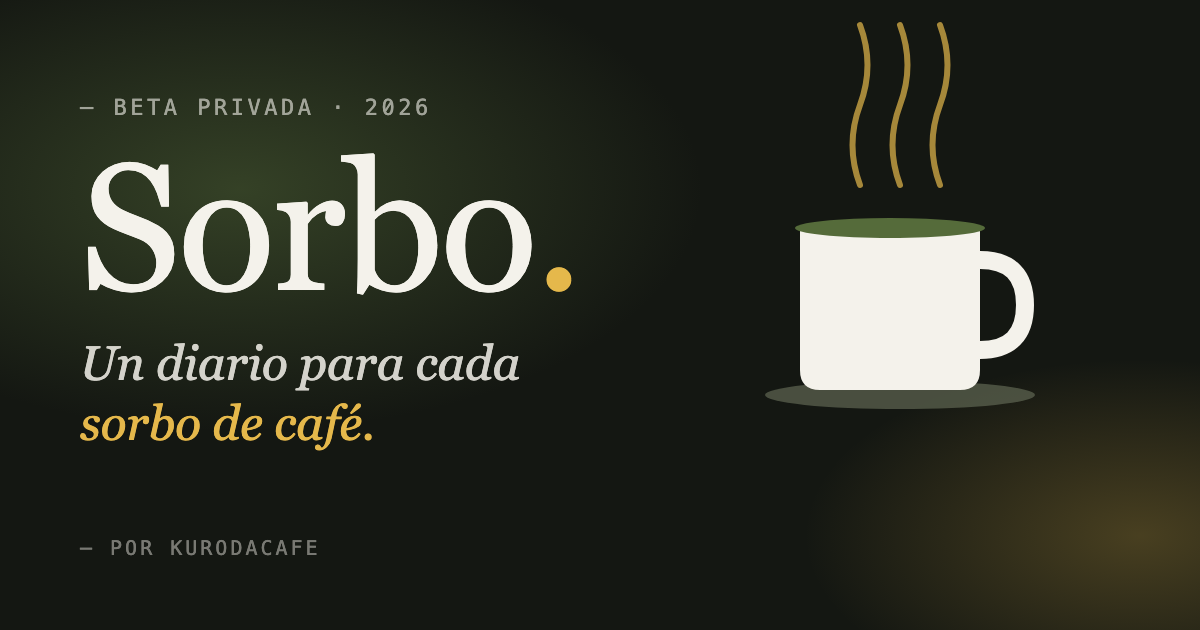
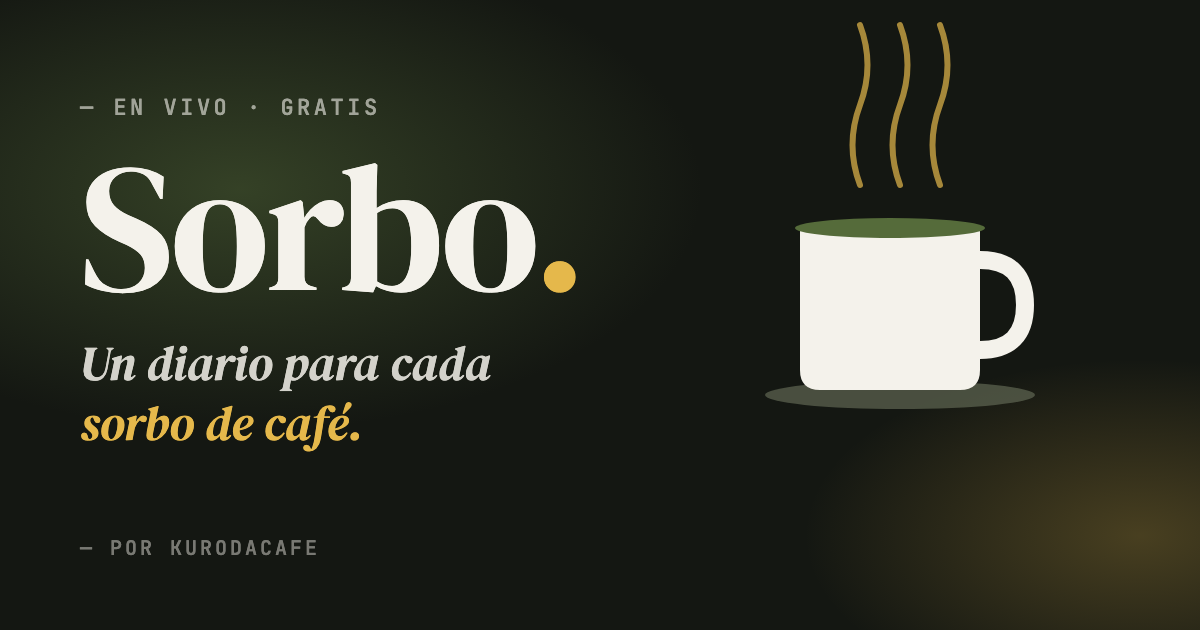
feat(landing): mobile hamburger nav + OG image actualizada
# Mobile nav (issue del audit SEO sev-4)
Antes en <760px la nav escondía todos los section links y solo dejaba
el botón "Crear cuenta", sin alternativa para acceder a las secciones
o a /login.

Ahora:
- Hamburger button (3 líneas, paper sobre jungle) visible solo en
  <760px. Reemplaza la row de links que vivía en la nav.
- Click abre un panel full-screen con:
  · Features · Cómo funciona · Por qué Sorbo · Preguntas frecuentes
    · Sobre el proyecto
  · CTA "Crear cuenta" + "Ya tengo cuenta" (logged out)
  · "Ir a la app" (logged in)
  · Footer con IG + correo de contacto
- Cierra con ×, Esc, o al tap en cualquier link (smooth scroll
  diferido 200ms para no romper la animación de cierre).
- role="dialog" + aria-modal="true" + aria-controls en el botón.

# OG image (issue del audit SEO sev-3)
- og-image.svg: "BETA PRIVADA · 2026" → "EN VIVO · GRATIS".
  Consistente con el eyebrow del hero.
- og-image.png regenerada vía Chrome headless (1200×630, 210KB).
- scripts/render-og-image.sh nuevo: pipeline reusable que envuelve
  el SVG en HTML con Google Fonts (DM Serif Display + JetBrains Mono)
  y renderiza con Chrome headless. Necesario porque rsvg-convert /
  ImageMagick no cargan webfonts remotas.

diff --git a/pages/index.vue b/pages/index.vue
@@ -203,6 +203,18 @@ function smoothScroll(id: string) {
   const el = document.getElementById(id)
   if (el) el.scrollIntoView({ behavior: 'smooth', block: 'start' })
 }
+
+// ─── Mobile nav ───
+const mobileNavOpen = ref(false)
+
+function openMobileNav() { mobileNavOpen.value = true }
+function closeMobileNav() { mobileNavOpen.value = false }
+
+function mobileScrollAndClose(id: string) {
+  closeMobileNav()
+  // pequeño delay para que el panel se cierre antes del scroll
+  setTimeout(() => smoothScroll(id), 200)
+}
 </script>
 
 <template>
@@ -227,7 +239,86 @@ function smoothScroll(id: string) {
           <a href="#registro" class="nav-cta" @click.prevent="smoothScroll('registro')">Crear cuenta</a>
         </template>
       </div>
+
+      <!-- Hamburger (solo <760px) — abre panel con todos los links. -->
+      <button
+        type="button"
+        class="nav-burger"
+        :aria-expanded="mobileNavOpen"
+        aria-label="Abrir menú"
+        aria-controls="mobile-nav-panel"
+        @click="openMobileNav"
+      >
+        <span aria-hidden="true" />
+        <span aria-hidden="true" />
+        <span aria-hidden="true" />
+      </button>
     </nav>
+
+    <!-- ============ MOBILE NAV PANEL ============ -->
+    <Transition
+      enter-active-class="mobile-nav-transition-enter"
+      leave-active-class="mobile-nav-transition-leave"
+    >
+      <div
+        v-if="mobileNavOpen"
+        id="mobile-nav-panel"
+        class="mobile-nav"
+        role="dialog"
+        aria-modal="true"
+        aria-label="Menú principal"
+        @keydown.esc="closeMobileNav"
+      >
+        <div class="mobile-nav-header">
+          <NuxtLink to="/" class="brand" aria-label="Sorbo · Inicio" @click="closeMobileNav">
+            <img src="/sorbo.svg" alt="" aria-hidden="true" class="mark-svg">
+            <div class="name">Sorbo<span class="dot">.</span></div>
+          </NuxtLink>
+          <button
+            type="button"
+            class="mobile-nav-close"
+            aria-label="Cerrar menú"
+            @click="closeMobileNav"
+          >
+            ×
+          </button>
+        </div>
+
+        <nav class="mobile-nav-links" aria-label="Navegación principal móvil">
+          <a href="#features" @click.prevent="mobileScrollAndClose('features')">Features</a>
+          <a href="#como" @click.prevent="mobileScrollAndClose('como')">Cómo funciona</a>
+          <a href="#por-que" @click.prevent="mobileScrollAndClose('por-que')">Por qué Sorbo</a>
+          <a href="#faq" @click.prevent="mobileScrollAndClose('faq')">Preguntas frecuentes</a>
+          <NuxtLink to="/about" @click="closeMobileNav">Sobre el proyecto</NuxtLink>
+        </nav>
+
+        <div class="mobile-nav-cta">
+          <template v-if="isLoggedIn">
+            <NuxtLink to="/app" class="mobile-nav-btn primary" @click="closeMobileNav">
+              Ir a la app →
+            </NuxtLink>
+          </template>
+          <template v-else>
+            <a
+              href="#registro"
+              class="mobile-nav-btn primary"
+              @click.prevent="mobileScrollAndClose('registro')"
+            >
+              Crear cuenta
+            </a>
+            <NuxtLink to="/login" class="mobile-nav-btn ghost" @click="closeMobileNav">
+              Ya tengo cuenta
+            </NuxtLink>
+          </template>
+        </div>
+
+        <p class="mobile-nav-foot">
+          <a href="https://instagram.com/kurodacafe" target="_blank" rel="noopener">@kurodacafe</a>
+          ·
+          <a href="mailto:info@sorbo.app">info@sorbo.app</a>
+        </p>
+      </div>
+    </Transition>
 
     <!-- ============ HERO ============ -->
     <section class="hero">
@@ -802,12 +893,148 @@ function smoothScroll(id: string) {
   font-weight: 500;
 }
 .nav .nav-login:hover { color: var(--paper) !important; }
+/* Hamburger button — solo visible en mobile. */
+.nav-burger {
+  display: none;
+  width: 40px;
+  height: 40px;
+  flex-direction: column;
+  justify-content: center;
+  gap: 5px;
+  background: transparent;
+  border: 0;
+  cursor: pointer;
+  padding: 0;
+}
+.nav-burger span {
+  display: block;
+  width: 22px;
+  height: 1.5px;
+  background: var(--paper);
+  border-radius: 1px;
+  margin: 0 auto;
+  transition: opacity 0.15s;
+}
+.nav-burger:hover span { opacity: 0.7; }
+
 @media (max-width: 760px) {
   .nav { padding: 14px 18px; }
-  /* En mobile escondemos los anchors de sección + Ingresar (este último
-     se accede desde el CTA "Ya tengo cuenta" del hero o el footer). */
-  .nav .links a:not(.nav-cta) { display: none; }
+  /* En mobile escondemos toda la nav-row de links y dejamos solo el
+     hamburger — los links viven dentro del panel mobile. */
+  .nav .links { display: none; }
+  .nav-burger { display: flex; }
 }
+
+/* ──── Mobile nav panel ──── */
+.mobile-nav {
+  position: fixed;
+  inset: 0;
+  z-index: 100;
+  background: var(--jungle);
+  display: flex;
+  flex-direction: column;
+  padding: calc(env(safe-area-inset-top) + 18px) 24px calc(env(safe-area-inset-bottom) + 24px);
+}
+.mobile-nav-header {
+  display: flex;
+  justify-content: space-between;
+  align-items: center;
+  margin-bottom: 48px;
+}
+.mobile-nav-header .brand {
+  display: flex;
+  align-items: center;
+  gap: 12px;
+  color: var(--paper);
+}
+.mobile-nav-header .brand .mark-svg { width: 32px; height: 32px; display: block; }
+.mobile-nav-header .brand .name {
+  font-family: var(--font-display);
+  font-size: 22px;
+  color: var(--paper);
+  line-height: 1;
+}
+.mobile-nav-header .brand .name .dot { color: var(--honey); }
+.mobile-nav-close {
+  width: 40px;
+  height: 40px;
+  background: transparent;
+  border: 1px solid rgba(244, 242, 235, 0.18);
+  border-radius: 50%;
+  color: var(--paper);
+  font-size: 26px;
+  line-height: 1;
+  cursor: pointer;
+  transition: border-color 0.15s;
+}
+.mobile-nav-close:hover { border-color: rgba(244, 242, 235, 0.5); }
+
+.mobile-nav-links {
+  display: flex;
+  flex-direction: column;
+  gap: 0;
+  flex: 1;
+}
+.mobile-nav-links a {
+  font-family: var(--font-display);
+  font-size: 26px;
+  color: var(--paper);
+  padding: 18px 0;
+  border-bottom: 1px solid rgba(244, 242, 235, 0.08);
+  transition: color 0.15s;
+}
+.mobile-nav-links a:hover { color: var(--honey); }
+.mobile-nav-links a:last-child { border-bottom: 0; }
+
+.mobile-nav-cta {
+  display: flex;
+  flex-direction: column;
+  gap: 10px;
+  margin-top: 32px;
+}
+.mobile-nav-btn {
+  display: block;
+  text-align: center;
+  padding: 16px 22px;
+  border-radius: 12px;
+  font-family: var(--font-sans);
+  font-weight: 500;
+  font-size: 14px;
+  transition: transform 0.2s;
+}
+.mobile-nav-btn:hover { transform: translateY(-1px); }
+.mobile-nav-btn.primary {
+  background: var(--honey);
+  color: var(--moss);
+}
+.mobile-nav-btn.ghost {
+  background: transparent;
+  color: var(--paper);
+  border: 1px solid rgba(244, 242, 235, 0.25);
+}
+
+.mobile-nav-foot {
+  margin-top: 24px;
+  text-align: center;
+  font-family: var(--font-mono);
+  font-size: 11px;
+  text-transform: uppercase;
+  letter-spacing: 0.16em;
+  color: rgba(244, 242, 235, 0.45);
+}
+.mobile-nav-foot a {
+  color: var(--paper);
+  margin: 0 6px;
+}
+.mobile-nav-foot a:hover { color: var(--honey); }
+
+.mobile-nav-transition-enter,
+.mobile-nav-transition-leave {
+  transition: transform 0.28s cubic-bezier(0.32, 0, 0.18, 1), opacity 0.2s;
+}
+.mobile-nav-transition-enter.mobile-nav-transition-enter-from { transform: translateY(-12px); opacity: 0; }
+/* CSS-only safety: hide the panel when not actively mounted (Vue Transition handles it,
+   but ensures no leftover bug from class timing). */
 
 /* ==================== HERO ==================== */
 .hero {
